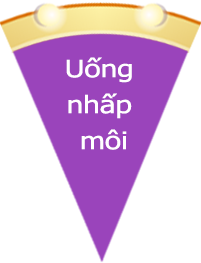
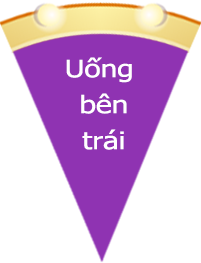
update final

Changed region(s): [[0.3284, 0.3346, 0.6567, 0.4563], [0.3881, 0.4867, 0.6269, 0.5779]]

diff --git a/lib/main.dart b/lib/main.dart
@@ -30,9 +30,9 @@ String bannerAdUnitId = Platform.isAndroid
     ? 'ca-app-pub-3940256099942544/6300978111'
     : 'ca-app-pub-8585499129481868/5093586990';
 var client = http.Client();
-var version = Platform.isAndroid ? '1.1' : '1.0';
+var version = Platform.isAndroid ? '1.2' : '1.0';
 bool isVersion = true;
-
+var linkup = '';
 Future<bool> check() async {
   var connectivityResult = await (Connectivity().checkConnectivity());
   if (connectivityResult == ConnectivityResult.mobile) {
@@ -61,6 +61,7 @@ void main() async {
         var dataVs = Platform.isAndroid
             ? json.decode(res.body)['data']['a_Version']
             : json.decode(res.body)['data']['i_Version'];
+        linkup = Platform.isAndroid ? json.decode(res.body)['data']['a_LinkUp'] : json.decode(res.body)['data']['i_LinkUp'];
         if (version != dataVs) {
           isVersion = false;
         }
@@ -290,14 +291,14 @@ class _MyHomePageState extends State<MyHomePage> with TickerProviderStateMixin {
       '8',
     ];
     final itemss = <String>[
-      'Thêm lượt',
-      'Uống nhấp môi',
-      'Chỉ định',
-      'Uống nửa ly',
       'Qua lượt',
+      'Uống bên trái',
+      'Uống nửa ly',
+      'Uống hai ly',
+      'Chỉ định',
+      'Uống bên phải',
       'Uống cạn ly',
       'Đồng khởi',
-      'Uống hai ly',
     ];
 
     return DecoratedBox(
@@ -476,8 +477,8 @@ class _MyDialogState extends State<MyDialog> {
           TextButton(
               onPressed: () {
                 OpenAppstore.launch(
-                    androidAppId: "com.facebook.katana&hl=ko",
-                    iOSAppId: "284882215");
+                    androidAppId: linkup,
+                    iOSAppId: linkup);
               },
               child: Text('Cập nhật'))
         ]);
